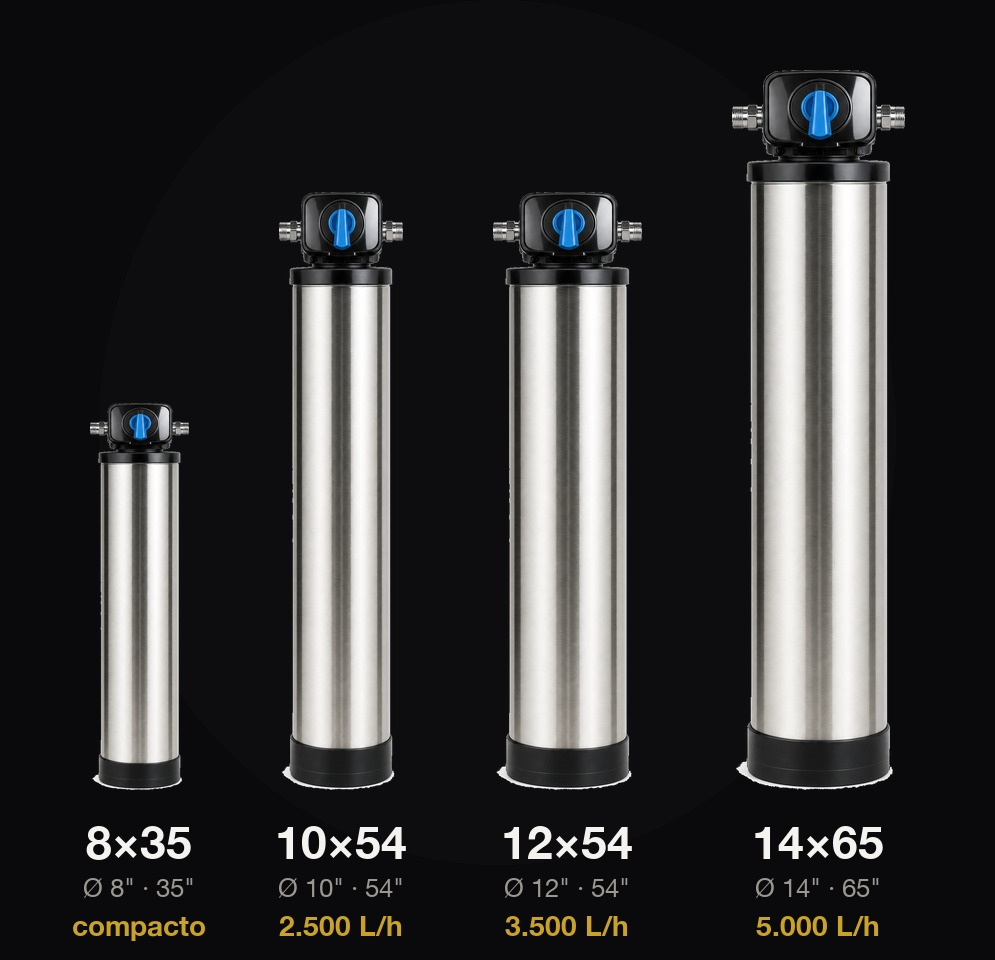
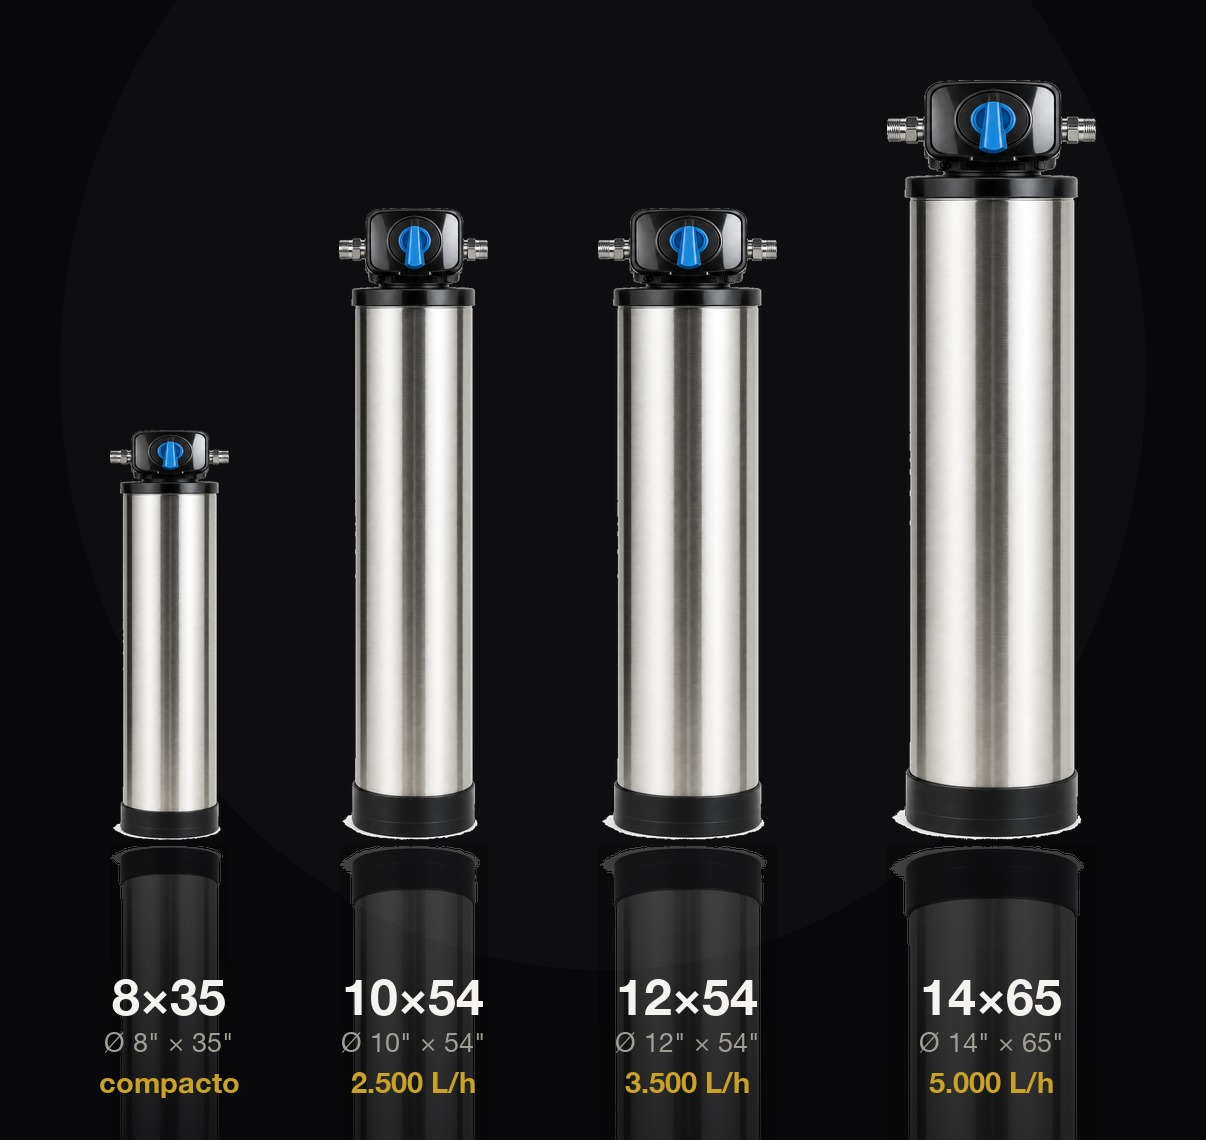
Corrige proporções exatas dos 4 modelos (polegadas), válvula Runxin monocomando+bypass, seção certificação Inmetro + 10 anos garantia com valor

diff --git a/index.html b/index.html
@@ -119,13 +119,13 @@
 <section class="auto" id="automacao">
   <img class="auto__img reveal" src="assets/img/unidade.png" alt="Cabeçote de controle com retrolavagem automática" />
   <div class="auto__txt">
-    <p class="eyebrow reveal">Retrolavagem automática</p>
-    <h2 class="h2 reveal">Ele se limpa sozinho.</h2>
-    <p class="lead reveal">No coração do American Filter está um cabeçote de controle inteligente. Em ciclos programados, ele inverte o fluxo da água e faz a retrolavagem da mídia filtrante — soltando e descartando os sedimentos acumulados. A filtração se renova sozinha, sem desmontagem, sem troca de elemento, sem esforço.</p>
+    <p class="eyebrow reveal">Válvula Runxin · monocomando com by-pass</p>
+    <h2 class="h2 reveal">Controle num<br/>único comando.</h2>
+    <p class="lead reveal">No comando do American Filter está uma válvula Runxin — referência mundial em controle de filtros. Num único movimento você alterna entre filtragem, retrolavagem e enxágue: a retrolavagem inverte o fluxo e limpa a mídia (quartzo e zeólita), devolvendo a vazão original. E o by-pass isola o filtro quando preciso — sem cortar a água da casa.</p>
     <ul class="auto__list reveal">
-      <li><b>Autolimpeza da mídia</b> — a retrolavagem desobstrui o quartzo e a zeólita, devolvendo a vazão original a cada ciclo.</li>
-      <li><b>Ciclos programados</b> — a válvula define o intervalo ideal e age sozinha, mantendo a performance estável.</li>
-      <li><b>Zero manutenção no dia a dia</b> — sem rotinas, sem peças para trocar. Mais longevidade para a mídia.</li>
+      <li><b>Monocomando</b> — filtragem, retrolavagem e enxágue num giro só, sem desmontar nada.</li>
+      <li><b>By-pass integrado</b> — manutenção ou limpeza sem interromper o abastecimento do imóvel.</li>
+      <li><b>Válvula Runxin</b> — êmbolo cerâmico, alta resistência à corrosão e à abrasão. Feita pra durar.</li>
     </ul>
   </div>
 </section>
@@ -136,7 +136,6 @@
     <p class="eyebrow reveal">Quatro tamanhos. Uma engenharia.</p>
     <h2 class="h2 reveal">A medida certa<br/>para o seu consumo</h2>
   </div>
-  <img class="linha__lineup reveal" src="assets/img/linha_lineup.jpg" alt="Linha American Filter — quatro tamanhos" />
   <div class="linha__stage">
     <div class="viewer" id="viewer">
       <img class="viewer__fallback" id="viewerFallback" src="assets/img/unidade.png" alt="Unidade American Filter" />
@@ -165,8 +164,19 @@
 <!-- GARANTIA -->
 <section class="garantia" id="garantia">
   <div class="garantia__inner">
-    <p class="eyebrow reveal">Confiança que se mede em anos</p>
-    <h2 class="h2 reveal">A maior garantia do Brasil</h2>
+    <p class="eyebrow reveal">Certificação &amp; garantia</p>
+    <h2 class="h2 reveal">A confiança não se promete.<br/>Comprova-se.</h2>
+    <p class="lead reveal" style="margin:1.4rem auto 0;max-width:62ch">Um filtro trata a água da sua família inteira — e merece a prova de que entrega o que diz. O American Filter tem as duas garantias que importam: a de um órgão independente e a do tempo.</p>
+    <div class="gvalue">
+      <div class="gv reveal">
+        <h3>Certificação Inmetro</h3>
+        <p>Cada American Filter atende ao mais alto padrão nacional de qualidade e segurança. Não é promessa de marketing — é a aprovação de um órgão independente que testa e atesta o produto. Quando vê o selo Inmetro, você sabe que está levando engenharia comprovada para dentro de casa.</p>
+      </div>
+      <div class="gv reveal">
+        <h3>10 anos de garantia — a maior do Brasil</h3>
+        <p>Aço inox 304 com banho de níquel, feito para resistir. Você instala uma vez e esquece, com a tranquilidade de uma década inteira coberta. É o tipo de garantia que só quem confia no próprio produto consegue oferecer — e nenhum concorrente vai tão longe.</p>
+      </div>
+    </div>
     <div class="garantia__grid">
       <div class="gitem reveal"><span class="gnum">10</span><p>anos de garantia</p></div>
       <div class="gitem reveal"><span class="gnum">#1</span><p>a maior garantia do Brasil</p></div>

diff --git a/css/styles.css b/css/styles.css
@@ -134,6 +134,10 @@ em{font-style:italic;color:var(--gold-soft)}
 /* GARANTIA */
 .garantia{background:linear-gradient(180deg,#0d0d0f,#070708);border-top:1px solid var(--line);border-bottom:1px solid var(--line)}
 .garantia__inner{max-width:var(--max);margin:0 auto;padding:clamp(80px,12vh,150px) var(--pad);text-align:center}
+.gvalue{display:grid;grid-template-columns:1fr 1fr;gap:24px;margin-top:clamp(36px,5vw,60px);text-align:left}
+.gv{border:1px solid var(--line);border-radius:8px;padding:2rem;background:rgba(255,255,255,.02)}
+.gv h3{font-family:var(--serif);font-size:1.5rem;font-weight:500;color:var(--gold-soft);margin-bottom:.7rem}
+.gv p{color:var(--mut);font-size:.96rem;line-height:1.7}
 .garantia__grid{display:grid;grid-template-columns:repeat(3,1fr);gap:30px;margin-top:clamp(40px,6vw,70px)}
 .gitem{padding:2rem 1rem;border:1px solid var(--line);border-radius:6px}
 .gnum{font-family:var(--serif);font-size:clamp(2.4rem,5vw,3.6rem);color:var(--gold);display:block;line-height:1}
@@ -253,6 +257,7 @@ em{font-style:italic;color:var(--gold-soft)}
   .nav__links.is-open{display:flex;position:absolute;top:100%;left:0;right:0;flex-direction:column;
     gap:1.2rem;padding:1.6rem var(--pad);background:rgba(10,10,11,.97);border-bottom:1px solid var(--line)}
   .micron{grid-template-columns:1fr;text-align:center}
+  .gvalue{grid-template-columns:1fr}
   .garantia__grid{grid-template-columns:1fr}
 }
 @media(max-width:560px){.benefits__grid{grid-template-columns:1fr}}